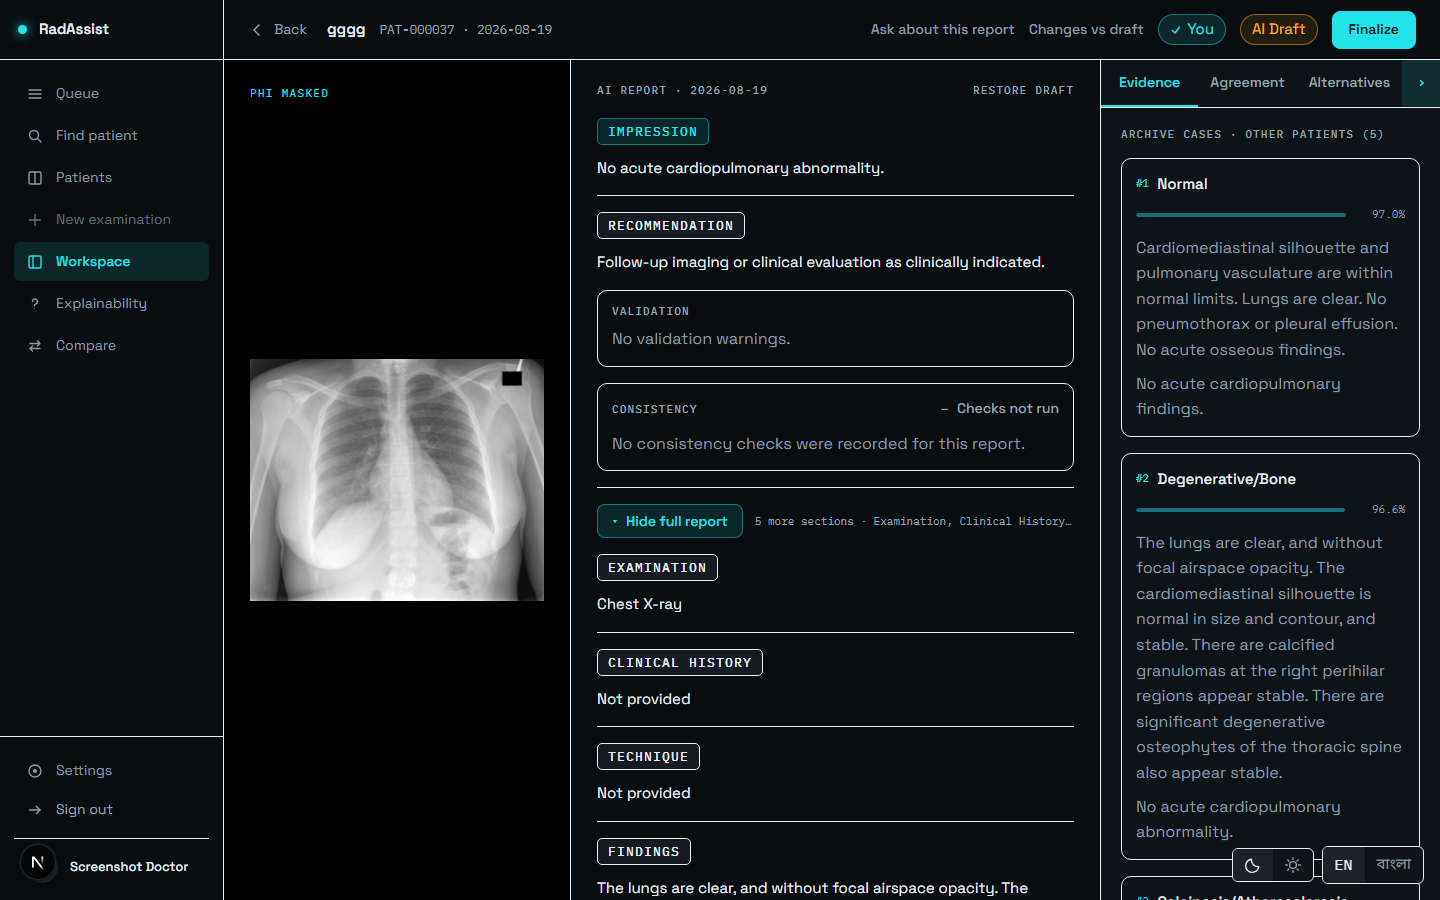
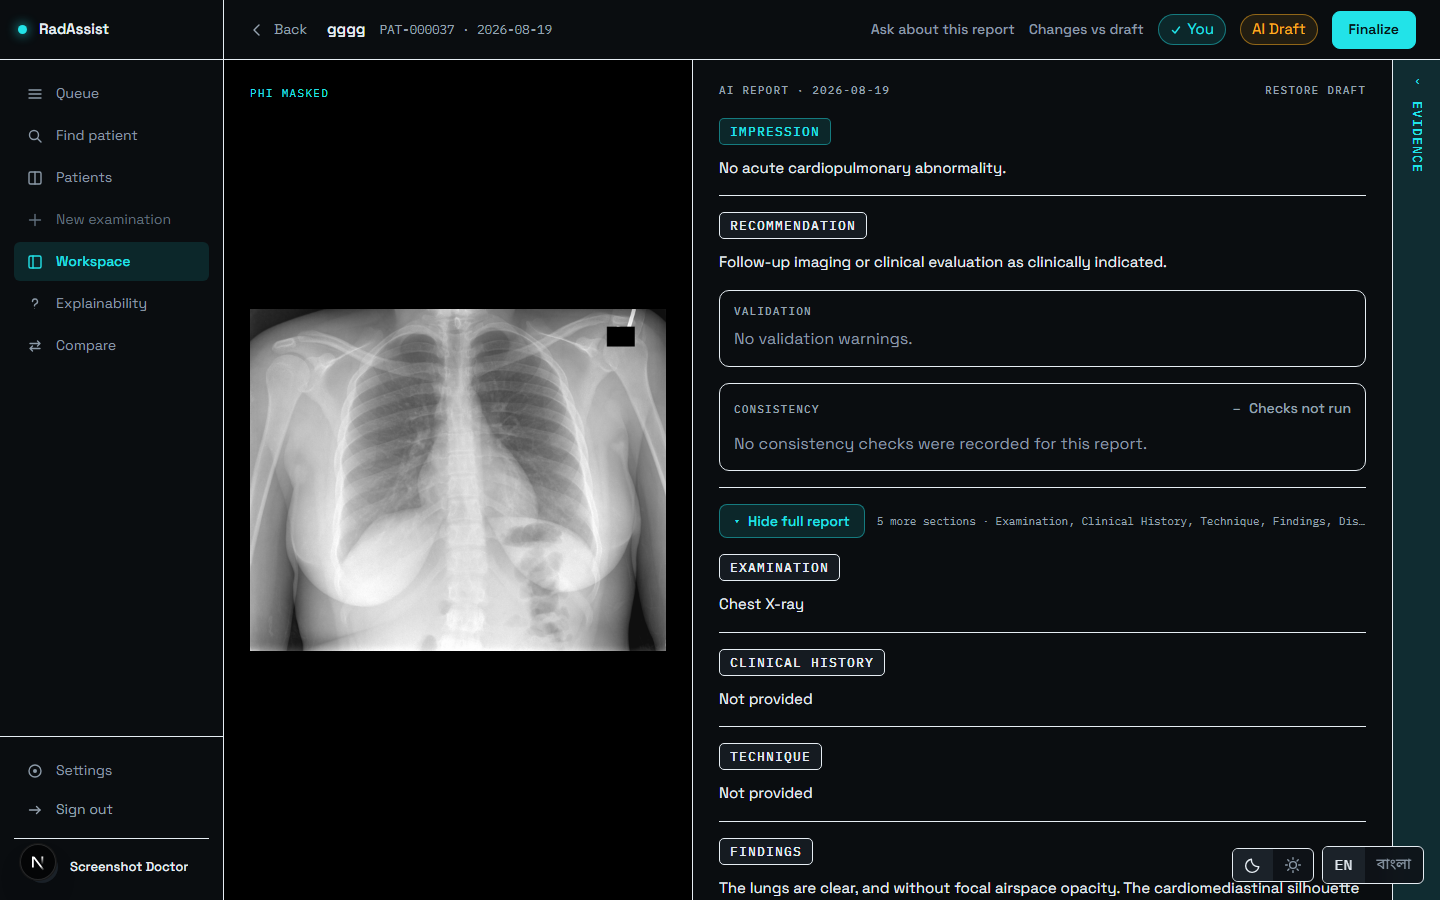
feat(ui): the evidence panel starts docked
The workspace opened with the evidence panel taking a third of the station
before anyone asked for it. It now starts docked to its rail: the screen opens
on the report -- impression, warnings, consistency verdict -- and the retrieved
evidence is one click away on a rail that names itself.

This reverses the original spec line ("expanded by default for first-time
users") at the user's request, and it is a default, not a restriction: the
choice is still remembered per doctor, so a reader who opens the panel keeps it
open on their next report.

The key moves to v2, and the rename is load-bearing rather than housekeeping.
usePersistedToggle writes only on an explicit toggle, so a reader who never
touched the control has no stored value and picks up the new default -- but one
who did would keep being served a decision they made about the OLD behaviour.
Retiring the key retires those. This is what the `v1` segment in the key
namespace was reserved for, and only the evidence preference is retired; the
full-report disclosure choice keeps its key and its default.

Tests: the sidebar suite now starts from docked throughout, and the pair that
makes the change actually reach a reader is asserted directly -- that nothing
is written to storage until the reader chooses, and that page.tsx passes `true`
under the v2 key. The component harness supplies its own values, so it cannot
see either; a source assertion pins both to what ships.
[…]

Changed region(s): [[0.1562, 0.0622, 1.0, 1.0], [0.6875, 0.0933, 0.75, 0.1244]]

diff --git a/frontend/src/components/report/evidence-sidebar.test.tsx b/frontend/src/components/report/evidence-sidebar.test.tsx
@@ -10,7 +10,7 @@ import { LanguageProvider } from "@/lib/i18n";
 import { usePersistedToggle } from "@/lib/use-persisted-toggle";
 import { EvidenceSidebar, type EvidenceTab } from "./evidence-sidebar";
 
-const STORAGE_KEY = "rr:v1:doctor-1:workspace.evidenceCollapsed";
+const STORAGE_KEY = "rr:v1:doctor-1:workspace.evidenceCollapsed.v2";
 
 let mountCount = 0;
 function MountCounter() {
@@ -22,7 +22,10 @@ function MountCounter() {
 
 /** Mirrors the workspace's wiring: persisted collapse + in-React tab state. */
 function Harness({ scope = "doctor-1" }: { scope?: string | null }) {
-  const [collapsed, setCollapsed] = usePersistedToggle(scope, "workspace.evidenceCollapsed", false);
+  // Collapsed by default, matching the workspace. A source assertion in
+  // full-report-rules.test.ts pins page.tsx to this same name and default,
+  // so this harness cannot drift away from what ships.
+  const [collapsed, setCollapsed] = usePersistedToggle(scope, "workspace.evidenceCollapsed.v2", true);
   const [tab, setTab] = useState<EvidenceTab>("evidence");
   return (
     <LanguageProvider initial="en">
@@ -57,20 +60,25 @@ afterEach(() => {
 });
 
 describe("Evidence sidebar — default and toggle", () => {
-  it("is expanded for a first-time reader", () => {
+  it("starts DOCKED for a first-time reader", () => {
+    // The screen opens on the report. Evidence is something a reader goes to
+    // look at, so it does not occupy a third of the station uninvited -- but
+    // the rail is on screen and named, so it is one click away, not hidden.
     const { container } = render(<Harness />);
+    expect(expandBtn()).not.toBeNull();
+    expect(expandBtn().getAttribute("aria-expanded")).toBe("false");
+    expect(panel(container).hasAttribute("hidden")).toBe(true);
+    expect(aside(container).className).toContain("w-evidence-rail");
+  });
+
+  it("expands on demand and docks again", () => {
+    const { container } = render(<Harness />);
+    fireEvent.click(expandBtn());
     expect(collapseBtn().getAttribute("aria-expanded")).toBe("true");
     expect(panel(container).hasAttribute("hidden")).toBe(false);
     expect(aside(container).className).toContain("w-evidence-panel");
-  });
 
-  it("collapses to a rail that still carries a reopen control", () => {
-    const { container } = render(<Harness />);
     fireEvent.click(collapseBtn());
-
-    // The whole point of a docked rail: the control that brings it back is
-    // still on screen. A panel that collapses to nothing is unreachable.
-    expect(expandBtn()).not.toBeNull();
     expect(expandBtn().getAttribute("aria-expanded")).toBe("false");
     expect(aside(container).className).toContain("w-evidence-rail");
     expect(panel(container).hasAttribute("hidden")).toBe(true);
@@ -78,7 +86,6 @@ describe("Evidence sidebar — default and toggle", () => {
 
   it("makes the docked rail itself the control, and names what it opens", () => {
     const { container } = render(<Harness />);
-    fireEvent.click(collapseBtn());
 
     // The reopen control was a 28px chevron in tertiary grey, reported as
     // invisible. Being findable by aria-label is not the same as being
@@ -95,23 +102,17 @@ describe("Evidence sidebar — default and toggle", () => {
     expect(rail.querySelectorAll("button")).toHaveLength(1);
   });
 
-  it("reopens from the rail", () => {
-    const { container } = render(<Harness />);
-    fireEvent.click(collapseBtn());
-    fireEvent.click(expandBtn());
-    expect(collapseBtn().getAttribute("aria-expanded")).toBe("true");
-    expect(panel(container).hasAttribute("hidden")).toBe(false);
-  });
-
   it("uses real buttons that name what they control", () => {
     const { container } = render(<Harness />);
-    expect(collapseBtn().tagName).toBe("BUTTON");
-    expect(collapseBtn().getAttribute("aria-controls")).toBe("evidence-panel");
-    expect(container.querySelector("#evidence-panel")).not.toBeNull();
-
-    fireEvent.click(collapseBtn());
     expect(expandBtn().tagName).toBe("BUTTON");
     expect(expandBtn().getAttribute("aria-controls")).toBe("evidence-panel");
+    // The panel it points at exists even while docked -- hidden, not
+    // unmounted -- so aria-controls never dangles.
+    expect(container.querySelector("#evidence-panel")).not.toBeNull();
+
+    fireEvent.click(expandBtn());
+    expect(collapseBtn().tagName).toBe("BUTTON");
+    expect(collapseBtn().getAttribute("aria-controls")).toBe("evidence-panel");
   });
 
   it("animates width from a token and honours reduced motion through it", () => {
@@ -128,46 +129,59 @@ describe("Evidence sidebar — default and toggle", () => {
 describe("Evidence sidebar — collapsed content is hidden from assistive tech", () => {
   it("takes the panel out of the accessibility tree when docked", () => {
     render(<Harness />);
-    expect(screen.queryByRole("heading", { name: "panel: evidence" })).not.toBeNull();
-
-    fireEvent.click(collapseBtn());
+    // Docked from the start, so this is the state a reader actually lands in.
     expect(screen.queryByRole("heading", { name: "panel: evidence" })).toBeNull();
     // The tab buttons go with it -- a docked panel must not leave three tab
     // controls in the tab order behind a 48px rail.
     expect(screen.queryByRole("button", { name: /agreement/i })).toBeNull();
+
+    // And all of it comes back on expand.
+    fireEvent.click(expandBtn());
+    expect(screen.queryByRole("heading", { name: "panel: evidence" })).not.toBeNull();
+    expect(screen.queryByRole("button", { name: /agreement/i })).not.toBeNull();
   });
 });
 
 describe("Evidence sidebar — persistence", () => {
-  it("writes the collapse choice to a namespaced, per-doctor key", () => {
+  it("writes the choice to a namespaced, per-doctor key", () => {
     render(<Harness />);
-    fireEvent.click(collapseBtn());
-    expect(window.localStorage.getItem(STORAGE_KEY)).toBe("true");
+    fireEvent.click(expandBtn());
+    expect(window.localStorage.getItem(STORAGE_KEY)).toBe("false");
+  });
+
+  it("stores nothing until the reader actually chooses", () => {
+    // This is what let the default change reach existing readers: the hook
+    // writes on toggle only, so anyone who never touched the control has no
+    // stored value and picks up whatever the current default is.
+    render(<Harness />);
+    expect(window.localStorage.getItem(STORAGE_KEY)).toBeNull();
   });
 
   it("survives a reload", () => {
     const first = render(<Harness />);
-    fireEvent.click(collapseBtn());
+    fireEvent.click(expandBtn());
     first.unmount();
 
     const { container } = render(<Harness />);
-    expect(expandBtn().getAttribute("aria-expanded")).toBe("false");
-    expect(aside(container).className).toContain("w-evidence-rail");
+    expect(collapseBtn().getAttribute("aria-expanded")).toBe("true");
+    expect(aside(container).className).toContain("w-evidence-panel");
   });
 
   it("does not leak one doctor's layout to another", () => {
     const first = render(<Harness scope="doctor-1" />);
-    fireEvent.click(collapseBtn());
+    fireEvent.click(expandBtn());
     first.unmount();
 
+    // doctor-2 never chose, so they get the default: docked.
     render(<Harness scope="doctor-2" />);
-    expect(collapseBtn().getAttribute("aria-expanded")).toBe("true");
+    expect(expandBtn().getAttribute("aria-expanded")).toBe("false");
   });
 });
 
 describe("Evidence sidebar — reopening restores the active tab", () => {
   it("comes back on the tab it was left on, not on the first one", () => {
     render(<Harness />);
+    fireEvent.click(expandBtn());
     fireEvent.click(screen.getByRole("button", { name: /alternatives/i }));
     expect(screen.queryByRole("heading", { name: "panel: alternatives" })).not.toBeNull();
 
@@ -185,9 +199,9 @@ describe("Evidence sidebar — toggling costs nothing", () => {
     render(<Harness />);
     expect(mountCount).toBe(1);
 
-    fireEvent.click(collapseBtn());
     fireEvent.click(expandBtn());
     fireEvent.click(collapseBtn());
+    fireEvent.click(expandBtn());
 
     expect(fetch).not.toHaveBeenCalled();
     expect(mountCount).toBe(1);

diff --git a/frontend/src/app/reports/[reportId]/page.tsx b/frontend/src/app/reports/[reportId]/page.tsx
@@ -99,7 +99,13 @@ const FULL_REPORT_FIELDS = CONTENT_FIELDS.filter((f) => !SUMMARY_KEY_SET.has(f.k
 
 /** localStorage names (namespaced and scoped to the doctor by the hook). */
 const FULL_REPORT_PREF = "workspace.fullReport";
-const EVIDENCE_PREF = "workspace.evidenceCollapsed";
+// v2, and the rename is the point rather than housekeeping. The DEFAULT for
+// this preference flipped from expanded to collapsed, and the hook only ever
+// writes on an explicit toggle -- so a reader who never touched the control
+// has no stored value and picks up the new default, but a reader who did would
+// keep being served a decision they made about the old behaviour. Retiring the
+// key retires those, which is what `v1` in the key namespace exists for.
+const EVIDENCE_PREF = "workspace.evidenceCollapsed.v2";
 
 /**
  * Radiologist Workspace (Phase 12 Step 5, restyled Phase 14 per
@@ -300,7 +306,13 @@ export default function ReportWorkspacePage() {
   const [evidenceCollapsed, setEvidenceCollapsed] = usePersistedToggle(
     currentDoctorId,
     EVIDENCE_PREF,
-    false, // default expanded for a first-time reader
+    // Default DOCKED. The screen opens on the report -- the impression, the
+    // warnings, the consistency verdict -- and the retrieved evidence is
+    // something a reader goes to look at, not something that should be
+    // occupying a third of the station before anyone asked for it. The rail
+    // keeps it one click away and names itself, which is what makes starting
+    // collapsed safe rather than hidden.
+    true,
   );
 
   // The four states that hold the full report open -- see full-report-rules.ts

diff --git a/frontend/src/lib/full-report-rules.test.ts b/frontend/src/lib/full-report-rules.test.ts
@@ -108,4 +108,20 @@ describe("the workspace keeps conclusions and alerts out of the disclosure", () 
     expect(page).toContain("usePersistedToggle(\n    currentDoctorId,\n    FULL_REPORT_PREF,");
     expect(page).toContain("usePersistedToggle(\n    currentDoctorId,\n    EVIDENCE_PREF,");
   });
+
+  it("opens with the evidence panel DOCKED, under the v2 key", () => {
+    // The evidence sidebar's default flipped from expanded to docked. Two
+    // things have to hold together for that to actually reach a reader, and
+    // the component test cannot see either of them because it supplies its own
+    // harness values:
+    //
+    //   1. the page passes `true` (docked) as the default, and
+    //   2. the key is the v2 one, so a choice made about the OLD default is
+    //      not replayed as though it were about this one.
+    //
+    // This pins both, and pins the component test's harness to the same pair.
+    expect(page).toContain('const EVIDENCE_PREF = "workspace.evidenceCollapsed.v2"');
+    const call = page.slice(page.indexOf("usePersistedToggle(\n    currentDoctorId,\n    EVIDENCE_PREF,"));
+    expect(call.slice(0, 600)).toMatch(/EVIDENCE_PREF,[\s\S]*?\n\s*true,/);
+  });
 });

diff --git a/docs/thesis/figures/ui/README.md b/docs/thesis/figures/ui/README.md
@@ -42,8 +42,8 @@ disposable copy — the same fail-closed discipline as the rest of `e2e/`.
 |---|---|---|
 | `{dark,light}-1-summary.png` | default, collapsed | The impression, the recommendation, the validation block and the consistency verdict are all visible without opening anything. The full report sits behind one control, labelled with what is inside it. |
 | `{dark,light}-2-full-report-expanded.png` | disclosure open | Examination, Clinical History, Technique, Findings and Disclaimer, with the control now reading "Hide full report". |
-| `{dark,light}-3-sidebar-expanded.png` | evidence panel open | The default for a first-time reader. Evidence prose is set in the same 16px/1.6 body token as the report column. |
-| `{dark,light}-4-sidebar-collapsed.png` | evidence panel docked | The panel collapses to a 48px rail that still carries its reopen control, and the report column widens from 530px to 700px. Body text does **not** stretch edge to edge — it stays capped at the 74ch measure. |
+| `{dark,light}-3-sidebar-expanded.png` | evidence panel open | Reached by clicking the docked rail. Evidence prose is set in the same 16px/1.6 body token as the report column. |
+| `{dark,light}-4-sidebar-collapsed.png` | evidence panel docked — **the default** | The panel collapses to a 48px rail that still carries its reopen control, and the report column widens from 530px to 700px. Body text does **not** stretch edge to edge — it stays capped at the 74ch measure. |
 | `{dark,light}-5-warnings-full-report-collapsed.png` | warnings present, report collapsed | **The frame that matters most.** Three validation warnings and a `partial` consistency verdict are both fully visible while the full report is still collapsed. Nothing a doctor must act on is behind a disclosure. |
 
 ## The two reports used
